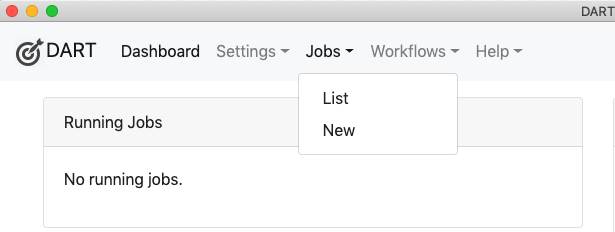
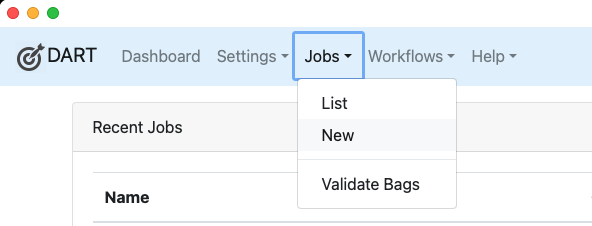
Updates to DART 3 jobs docs and screen shots

diff --git a/docs/dart3/users/jobs/artifacts.md b/docs/dart3/users/jobs/artifacts.md
@@ -1,0 +1,43 @@
+# Job Artifacts
+
+After running a job, DART 3 keeps a copy of the job's artifacts in its local database. These artifacts let you know what the job was intended to do, how it turned out, and which files and metadata were added into the bag. Artifacts are described below.
+
+Note that you can copy the contents of any of these files to the clipboard by clicking the file name in the left side bar and then clicking the **Copy to Clipboard** button. From there, you can paste the contents into another file.
+
+You can also save a file directly to disk by clicking **Save to File** [as described below](#saving-artifacts-to-a-local-file).
+
+## Manifests
+
+Manifests include all of the payload and tag manifests that were created as part of the bag, so you know not only what was packaged, but also the checksums of those files.
+
+![Job Manifests](../../img/jobs/artifacts_manifest.png)
+
+## Tag Files
+
+Tag files include all of the tag files that went into the bag during the bagging operation. Tag files should always include bagit.txt and bag-info.txt, and may include others, depending on the BagIt profile. (For example, APTrust's profile requires an `aptrust-info.txt` file, and this will appear in the list of tag files after the job is run.) Tag files contain the bag's essential metadata.
+
+![Tag Files](../../img/jobs/artifacts_bag_info.png)
+
+
+## Job Description
+
+The Raw Job Description is a JSON file that describes what actions were performed, including:
+
+  - Which files were bagged
+  - Which BagIt profile was used
+  - The result of the validation operation
+  - The list of remote S3 and/or SFTP services to which the bag was uploaded
+
+![Raw Job Description](../../img/jobs/artifacts_description.png)
+
+## Job Result
+
+This JSON file describes the result of each step of the bagging, validation, and uploading operations from the job description. The result includes error messages describing why any step of the operation failed.
+
+![Job Result](../../img/jobs/artifacts_result.png)
+
+## Saving Artifacts to a Local File
+
+DART keeps artifacts in its local sqlite database. If you want to export the contents of a manifest, tag file, job description or job result to a file, click the **Save to File** button. DART will save the file and show you where it put it. Saved files will go into a directory under Documents/DART, as shown below.
+
+![Saved Artifact](../../img/jobs/artifact_saved.png)

diff --git a/docs/dart3/index.md b/docs/dart3/index.md
@@ -4,30 +4,25 @@ DART is the Digital Archivist's Resource Tool. It provides both a GUI and a comm
 
 ## Download
 
-[NEEDS NEW DART 3 DOWNLOADS LINKS]
-
 {! dart3/shared/downloads.md !}
 
-After installation, check out the [Getting Started page](../dart2/users/getting_started.md)
+After installation, check out the [Getting Started page](users/getting_started.md)
 
 ## Supported Operations
 
-[NEEDS REWRITE]
-
-The current release of DART 2.0.22 supports the following features:
+The current release of DART 3 supports the following features:
 
 * Creating BagIt bags that conform to defined BagIt profiles
 * Validating BagIt bags according to defined BagIt profiles
 * Uploading bags and other files to remote S3 and SFTP endpoints
+* Creating, validating and uploading bags in loose, tar, and gzip formats
 * Creating and modifying BagIt profiles through a visual point-and-click editor
 * Defining repeatable Workflows for bagging and uploading files
-* Running multiple simultaneous bagging and upload jobs
-* Read-only integration with the APTrust's REST API to display the status of ingested materials and pending work items
-* A command-line tool to enable scriptable bagging and upload operations
 * BagIt Profile import and export
-* BagIt Profile customization throug a visual editor
 * Settings import and export
 * Workflow export
+* Saving an exporting local copies of artifacts from bagging jobs, including manifests, tag files, and job results
+* Read-only integration with the APTrust's REST API to display the status of ingested materials and pending work items
 
 To start using DART, see our [Getting Started](users/getting_started.md) page.
 
@@ -36,6 +31,8 @@ To start using DART, see our [Getting Started](users/getting_started.md) page.
 APTrust hosts a [DART User Group](https://aptrust.org/resources/user-groups/dart-user-group/) for the entire digital preservation community. This group will primarily be a [mailing list](https://groups.google.com/a/aptrust.org/g/dart-users), where users can share experiences, ask questions, and support one another. Depending on the level of interest and engagement, we may expand this initiative to include regular virtual meetings and more structured activities in the future.
 
 ## Useful Links
+
+Note that the video links below currently show the DART 2 interface, but features apply to DART 3 as well.
 
 [Getting Started with DART](../dart2/users/getting_started.md)
 

diff --git a/docs/dart3/users/getting_started.md b/docs/dart3/users/getting_started.md
@@ -2,7 +2,7 @@
 
 DART is the Digital Archivist's Resource Tool. Its primary purpose is to package digital materials and send them off to long-term preservation storage. DART's initial release focuses on packaging materials in BagIt format and uploading them to S3 buckets for ingest in APTrust. DART can be extended through plugins to produce other packaging formats and to communicated via additional network protocols.
 
-DART runs in both graphical and command-line modes on Windows, Mac, and Linux. What can you do with it? Take a look:
+DART runs in both graphical and command-line modes on Windows, Mac, and Linux. What can you do with it? The video below gives a sample. Note that this video shows the DART 2 interface. DART 3 is similar, except that files must be dragged in from the file navigator in the left side bar.
 
 <iframe width="845" height="479" src="https://www.youtube.com/embed/_ga9XfuyO-I" frameborder="0" allow="accelerometer; autoplay; clipboard-write; encrypted-media; gyroscope; picture-in-picture" allowfullscreen></iframe>
 
@@ -22,7 +22,7 @@ Follow these steps to create a valid local bag that conforms to the APTrust BagI
 
     ![New job](../img/getting_started/new_job.png)
 
-2. Drag some files or folders into the files window. To avoid a long-running job that will consume a lot of disk space, choose only a few megabytes of files.
+2. Drag some files or folders from the file browser on the left side of the window into the files area on the right. To avoid a long-running job that will consume a lot of disk space, choose only a few megabytes of files.
 
     ![Job files](../img/jobs/files.png)
 

diff --git a/docs/dart3/users/jobs/list.md b/docs/dart3/users/jobs/list.md
@@ -2,6 +2,9 @@
 
 To list all jobs, Choose __Jobs &gt; List__ from the menu. The list shows the job name and information about when it was last packaged, validated, and/or uploaded.
 
-Click on any job in the list to view it. On the following screen, you'll be able to edit or delete the job.
+Click the name of any job in the list to view it. On the following screen, you'll be able to edit or delete the job.
 
 ![Jobs list](../../img/jobs/list.png)
+
+If you want to view a job's manifests, tag files, or full result info, click **View Logs, Manifests & Tag Files** to the right of the job name. For more information, see [Job Artifacts](artifacts.md).
+
